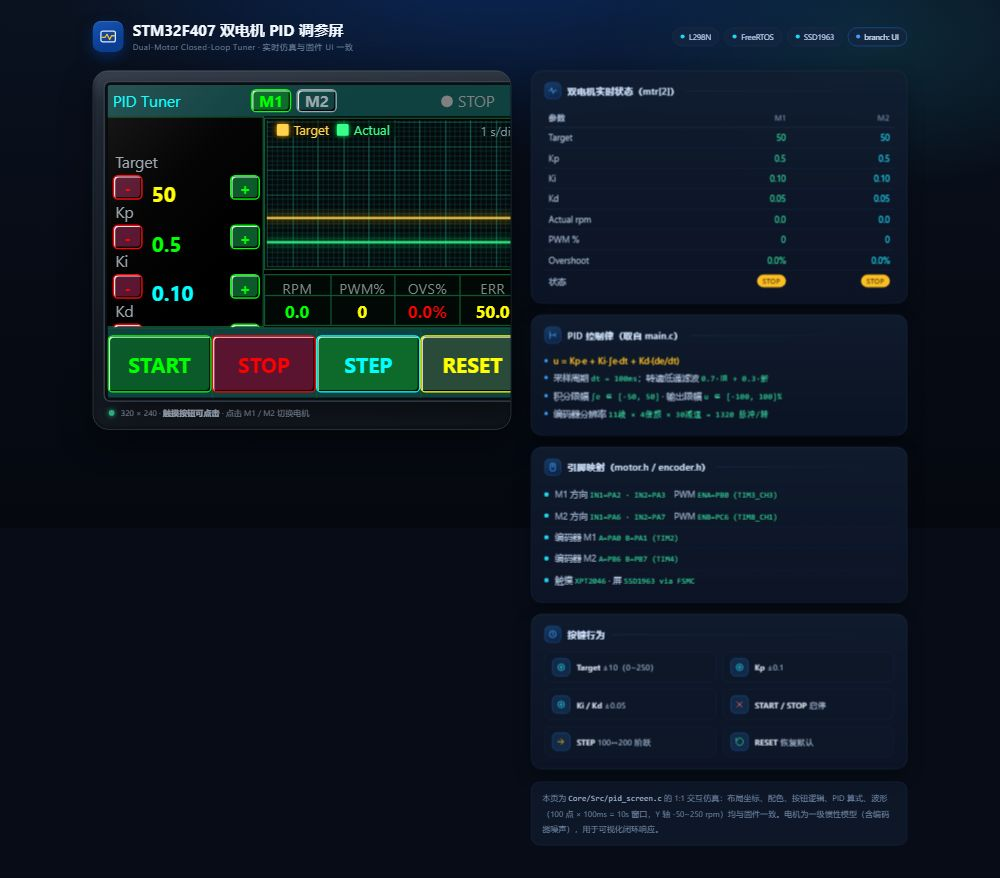
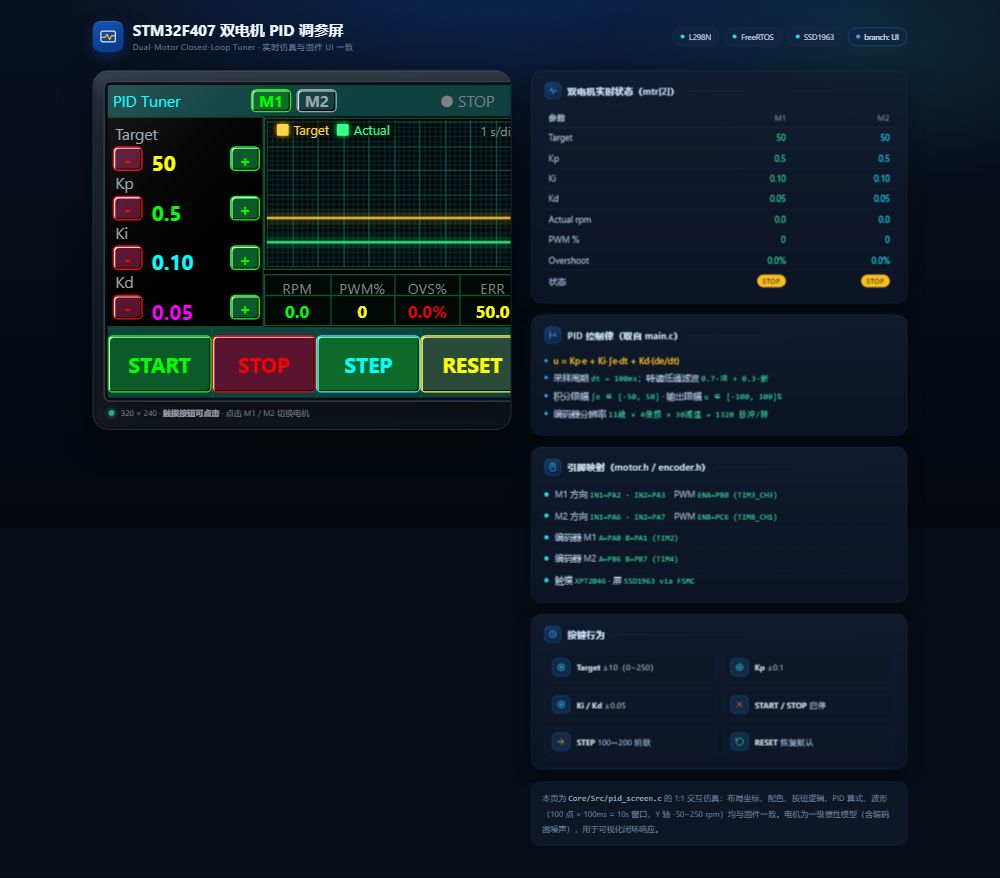
fix(UI): 紧凑重排左栏参数行, 修复Kd行被底部按钮栏遮挡

Changed region(s): [[0.093, 0.1538, 0.279, 0.369]]

diff --git a/PID_Tuner_UI.html b/PID_Tuner_UI.html
@@ -202,22 +202,22 @@
             </div>
             <!-- 左栏参数 -->
             <div class="leftpanel">
-              <span class="lbl" style="top:26px;">Target</span>
-              <div id="val-0" class="val" style="top:48px;color:#ffff00;">50</div>
-              <span class="lbl" style="top:64px;">Kp</span>
-              <div id="val-1" class="val" style="top:86px;color:#00ff00;">0.5</div>
-              <span class="lbl" style="top:102px;">Ki</span>
-              <div id="val-2" class="val" style="top:124px;color:#00ffff;">0.10</div>
-              <span class="lbl" style="top:140px;">Kd</span>
-              <div id="val-3" class="val" style="top:162px;color:#ff00ff;">0.05</div>
-              <div id="dec-0" class="btn3d" style="left:4px;top:44px;width:23px;height:19px;background:#5a1430;color:#ff0000;border:1px solid #ff0000;">-</div>
-              <div id="dec-1" class="btn3d" style="left:4px;top:82px;width:23px;height:19px;background:#5a1430;color:#ff0000;border:1px solid #ff0000;">-</div>
-              <div id="dec-2" class="btn3d" style="left:4px;top:120px;width:23px;height:19px;background:#5a1430;color:#ff0000;border:1px solid #ff0000;">-</div>
-              <div id="dec-3" class="btn3d" style="left:4px;top:158px;width:23px;height:19px;background:#5a1430;color:#ff0000;border:1px solid #ff0000;">-</div>
-              <div id="inc-0" class="btn3d" style="left:94px;top:44px;width:23px;height:19px;background:#0a5a2a;color:#00ff00;border:1px solid #00ff00;">+</div>
-              <div id="inc-1" class="btn3d" style="left:94px;top:82px;width:23px;height:19px;background:#0a5a2a;color:#00ff00;border:1px solid #00ff00;">+</div>
-              <div id="inc-2" class="btn3d" style="left:94px;top:120px;width:23px;height:19px;background:#0a5a2a;color:#00ff00;border:1px solid #00ff00;">+</div>
-              <div id="inc-3" class="btn3d" style="left:94px;top:158px;width:23px;height:19px;background:#0a5a2a;color:#00ff00;border:1px solid #00ff00;">+</div>
+              <span class="lbl" style="top:4px;">Target</span>
+              <div id="val-0" class="val" style="top:24px;color:#ffff00;">50</div>
+              <span class="lbl" style="top:42px;">Kp</span>
+              <div id="val-1" class="val" style="top:62px;color:#00ff00;">0.5</div>
+              <span class="lbl" style="top:80px;">Ki</span>
+              <div id="val-2" class="val" style="top:100px;color:#00ffff;">0.10</div>
+              <span class="lbl" style="top:118px;">Kd</span>
+              <div id="val-3" class="val" style="top:138px;color:#ff00ff;">0.05</div>
+              <div id="dec-0" class="btn3d" style="left:4px;top:22px;width:23px;height:19px;background:#5a1430;color:#ff0000;border:1px solid #ff0000;">-</div>
+              <div id="dec-1" class="btn3d" style="left:4px;top:60px;width:23px;height:19px;background:#5a1430;color:#ff0000;border:1px solid #ff0000;">-</div>
+              <div id="dec-2" class="btn3d" style="left:4px;top:98px;width:23px;height:19px;background:#5a1430;color:#ff0000;border:1px solid #ff0000;">-</div>
+              <div id="dec-3" class="btn3d" style="left:4px;top:136px;width:23px;height:19px;background:#5a1430;color:#ff0000;border:1px solid #ff0000;">-</div>
+              <div id="inc-0" class="btn3d" style="left:94px;top:22px;width:23px;height:19px;background:#0a5a2a;color:#00ff00;border:1px solid #00ff00;">+</div>
+              <div id="inc-1" class="btn3d" style="left:94px;top:60px;width:23px;height:19px;background:#0a5a2a;color:#00ff00;border:1px solid #00ff00;">+</div>
+              <div id="inc-2" class="btn3d" style="left:94px;top:98px;width:23px;height:19px;background:#0a5a2a;color:#00ff00;border:1px solid #00ff00;">+</div>
+              <div id="inc-3" class="btn3d" style="left:94px;top:136px;width:23px;height:19px;background:#0a5a2a;color:#00ff00;border:1px solid #00ff00;">+</div>
             </div>
             <!-- 波形区 -->
             <div class="wavebox">

diff --git a/Core/Src/pid_screen.c b/Core/Src/pid_screen.c
@@ -395,8 +395,8 @@ static void build_ui(void)
     lv_obj_set_style_pad_all(left, 0, 0);
 
     const char *labels[4] = {"Target", "Kp", "Ki", "Kd"};
-    int ly[4] = {26, 64, 102, 140};
-    int vy[4] = {48, 86, 124, 162};
+    int ly[4] = {4, 42, 80, 118};
+    int vy[4] = {24, 62, 100, 138};
     lv_color_t vcol[4] = {COL_YELLOW, COL_GREEN, COL_CYAN, COL_MAGENTA};
 
     for (int i = 0; i < 4; i++) {
